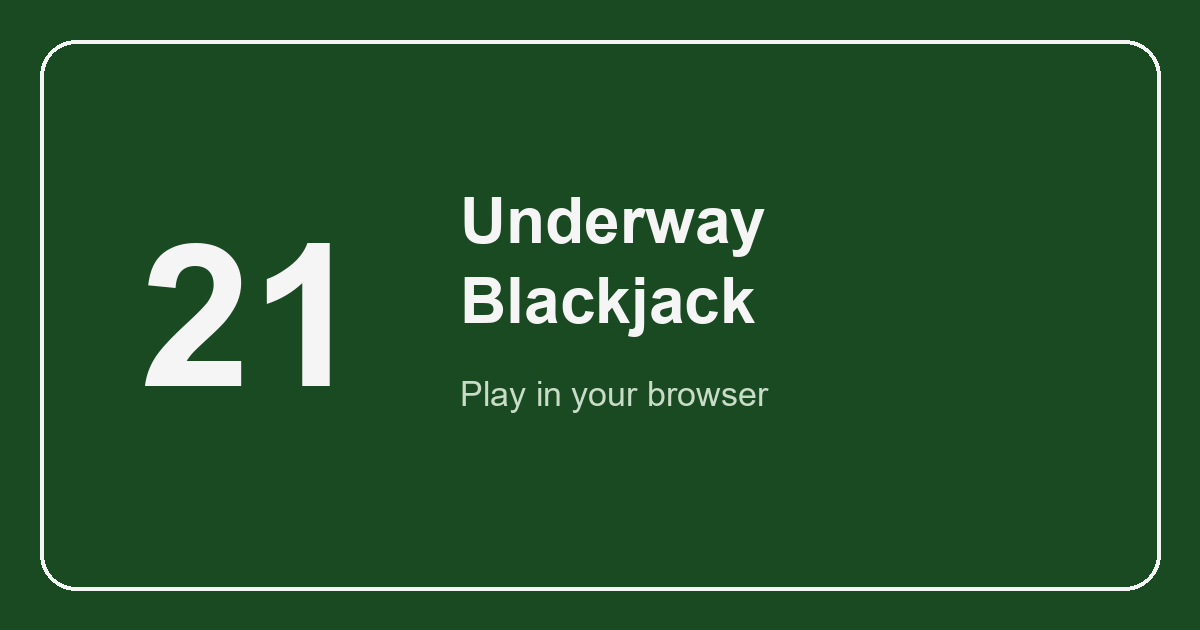
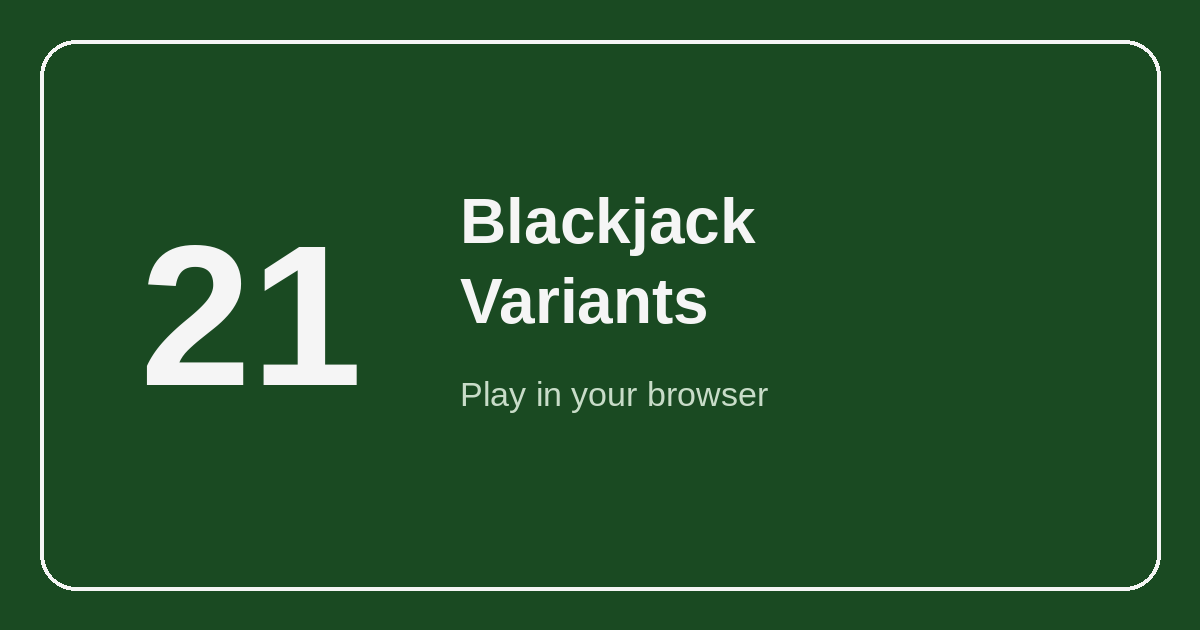
Rename the app to Blackjack Variants everywhere players see it
iPhone/iPad home screen name, Android app name, window title, web page
title/share card/manifest, and the docs. Internal identifiers stay as
they are: the bundle ID (registered with Apple), the save folder (so
existing saves and stats carry over), and file and repo names.

Claude-Session: https://claude.ai/code/session_01GrnhxVtxmzrspM3yjFvyfS

diff --git a/web/shell.html b/web/shell.html
@@ -14,19 +14,19 @@
     <link rel="apple-touch-icon" href="icon-192.png">
     <link rel="icon" href="icon-192.png">
     <link rel="manifest" href="manifest.json">
-    <title>Underway Blackjack</title>
+    <title>Blackjack Variants</title>
 
     <!-- Rich link previews when this URL is shared in iMessage/Slack/Discord/etc,
          instead of a bare link with no title or image. Image URL has to be
          absolute -- link-preview crawlers generally don't reliably resolve
          relative ones -- so it's tied to this specific deployment URL. -->
-    <meta property="og:title" content="Underway Blackjack">
+    <meta property="og:title" content="Blackjack Variants">
     <meta property="og:description" content="Play blackjack in your browser.">
     <meta property="og:image" content="https://homelab.taileb5ffb.ts.net:8443/social-card.png">
     <meta property="og:url" content="https://homelab.taileb5ffb.ts.net:8443">
     <meta property="og:type" content="website">
     <meta name="twitter:card" content="summary_large_image">
-    <meta name="twitter:title" content="Underway Blackjack">
+    <meta name="twitter:title" content="Blackjack Variants">
     <meta name="twitter:description" content="Play blackjack in your browser.">
     <meta name="twitter:image" content="https://homelab.taileb5ffb.ts.net:8443/social-card.png">
     <style>

diff --git a/web/static/gen_social_card.py b/web/static/gen_social_card.py
@@ -9,9 +9,11 @@ WHITE = (245, 245, 245, 255)
 FONT_CANDIDATES_BOLD = [
     r"C:\Windows\Fonts\arialbd.ttf",
     r"C:\Windows\Fonts\arial.ttf",
+    "/usr/share/fonts/truetype/liberation/LiberationSans-Bold.ttf",
 ]
 FONT_CANDIDATES_REGULAR = [
     r"C:\Windows\Fonts\arial.ttf",
+    "/usr/share/fonts/truetype/liberation/LiberationSans-Regular.ttf",
 ]
 
 def load_font(candidates, size):
@@ -43,8 +45,8 @@ tw, th = bbox[2] - bbox[0], bbox[3] - bbox[1]
 draw.text((140 - bbox[0], H / 2 - th / 2 - bbox[1]), text, font=big_font, fill=WHITE)
 
 # Title + subtitle, right side
-title = "Underway"
-title2 = "Blackjack"
+title = "Blackjack"
+title2 = "Variants"
 subtitle = "Play in your browser"
 
 block_x = 460

diff --git a/mina.cpp b/mina.cpp
@@ -1103,7 +1103,7 @@ bool initialize(SDLState &state){
     SDL_SetHint(SDL_HINT_WINDOWS_INTRESOURCE_ICON, "1");
     SDL_SetHint(SDL_HINT_WINDOWS_INTRESOURCE_ICON_SMALL, "1");
 #endif
-    state.window = SDL_CreateWindow("Underway Blackjack",state.width,state.height,windowFlags);
+    state.window = SDL_CreateWindow("Blackjack Variants",state.width,state.height,windowFlags);
     if(!state.window){
         SDL_ShowSimpleMessageBox(SDL_MESSAGEBOX_ERROR,"Error","Error creating window",nullptr);
         cleanup(state);

diff --git a/ios/README.md b/ios/README.md
@@ -22,7 +22,7 @@ exactly where described, it's nearby with a similar name.
 2. Click the blue **+** next to "Identifiers".
 3. Select **App IDs** → **Continue**.
 4. Select **App** → **Continue**.
-5. **Description:** `Underway Blackjack`.
+5. **Description:** `Blackjack Variants`.
    **Bundle ID:** leave **Explicit** selected and enter
    `com.youseeimnewhere.underwayblackjack` exactly.
 6. Leave every capability unchecked → **Continue** → **Register**.
@@ -35,11 +35,11 @@ exactly where described, it's nearby with a similar name.
 3. Click the blue **+** next to "Apps" → **New App**.
 4. Fill in:
    - **Platforms:** check **iOS**
-   - **Name:** `Underway Blackjack`. This has to be unique across the whole
-     App Store; if it's taken, try something like `Underway Blackjack 21`.
+   - **Name:** `Blackjack Variants`. This has to be unique across the whole
+     App Store; if it's taken, try something like `Blackjack Variants 21`.
      It's only the store name and can be changed later.
    - **Primary Language:** English (U.S.)
-   - **Bundle ID:** pick `Underway Blackjack - com.youseeimnewhere.underwayblackjack`
+   - **Bundle ID:** pick `Blackjack Variants - com.youseeimnewhere.underwayblackjack`
      (it appears after step 2; refresh if not)
    - **SKU:** `underwayblackjack`
    - **User Access:** Full Access

diff --git a/BUILDING.md b/BUILDING.md
@@ -1,4 +1,4 @@
-# Building Underway Blackjack
+# Building Blackjack Variants
 
 Every version is built from the same C++ source. GitHub Actions builds all of
 them for you, so you don't need a Mac or Android Studio just to get a copy.
@@ -124,7 +124,7 @@ To publish one:
 3. Click **Choose a tag**, type a new version like `v1.0`, and click
    **Create new tag: v1.0 on publish**. It must start with `v`. **Target**
    stays `master`.
-4. Give it a title such as `Underway Blackjack 1.0` and, optionally, a few
+4. Give it a title such as `Blackjack Variants 1.0` and, optionally, a few
    lines on what's new.
 5. Click **Publish release**.
 6. Wait about 5 minutes and refresh the release page. The two files appear
